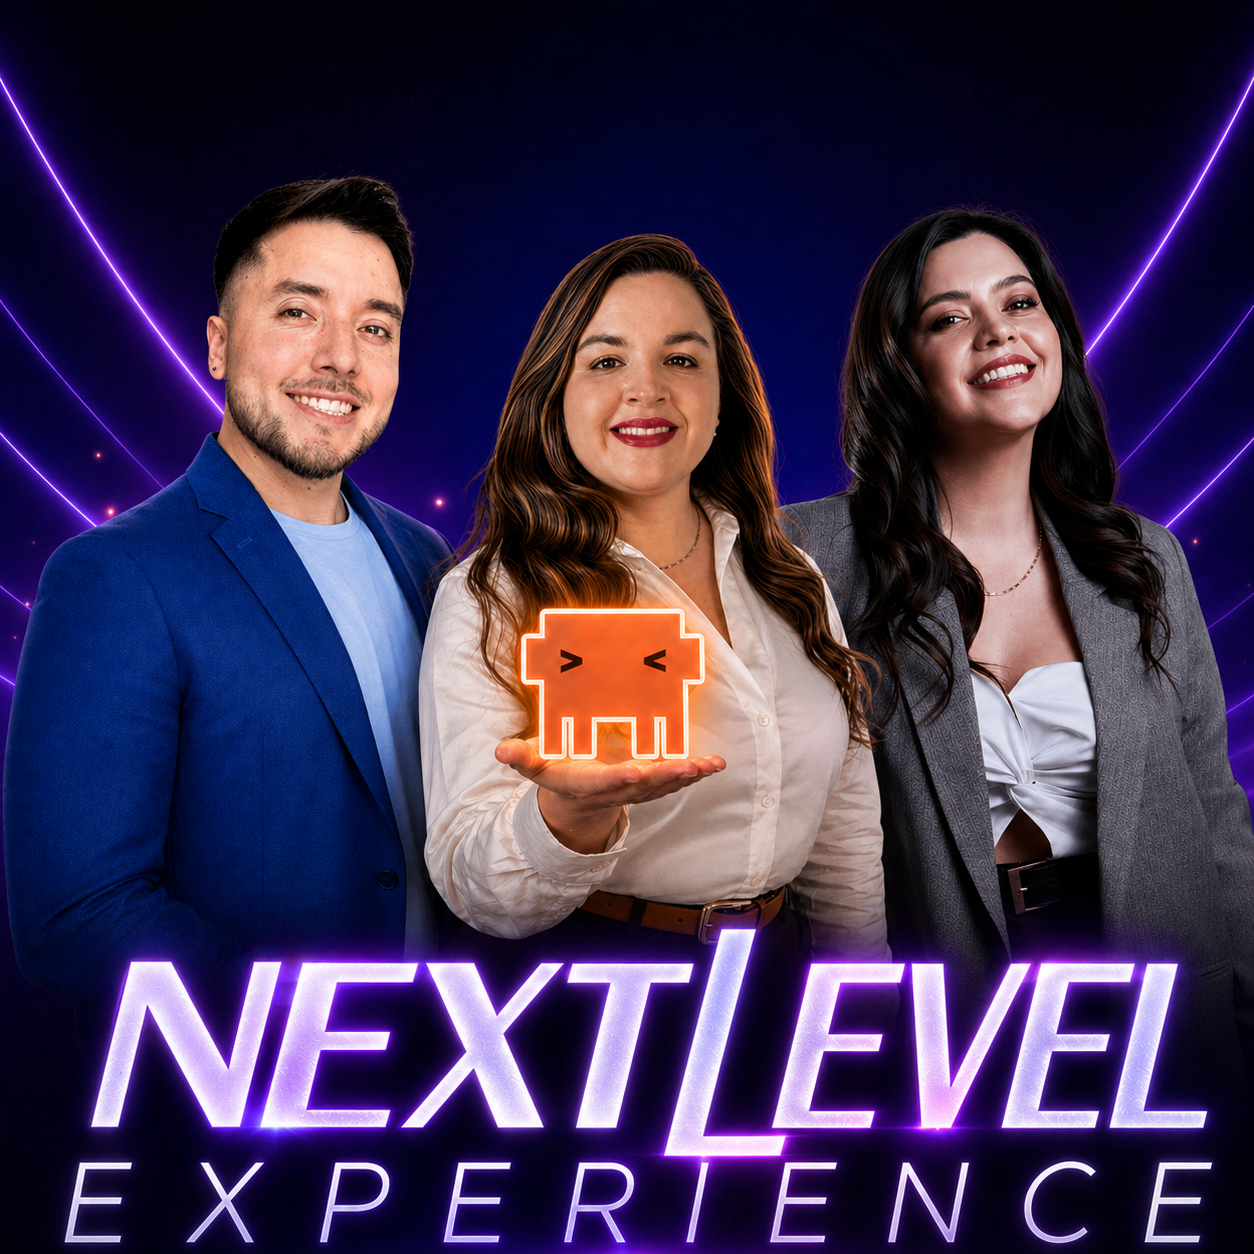
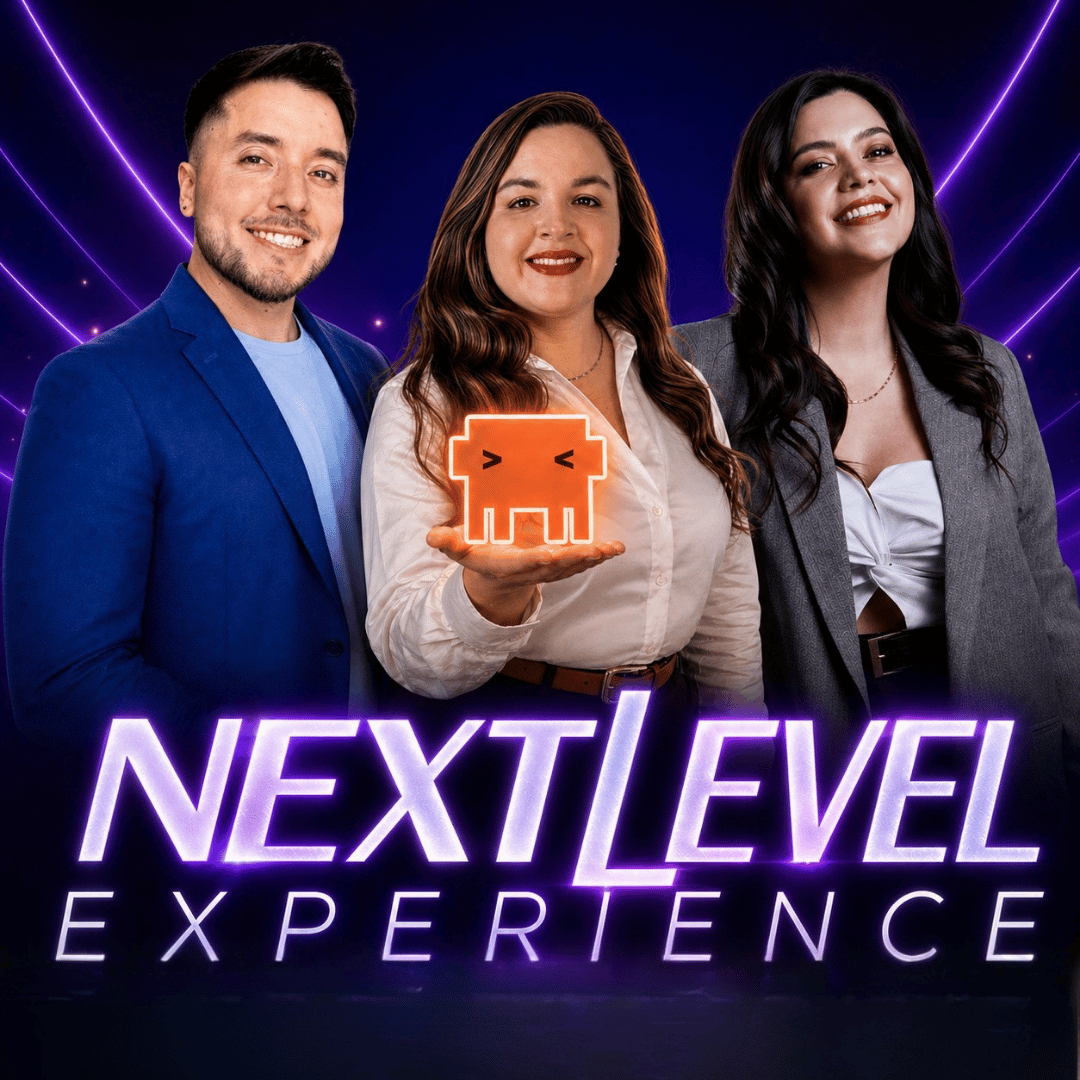
fix(hero): reemplaza foto con version mejor centrada (1080x1080)

diff --git a/src/components/landing/Hero.tsx b/src/components/landing/Hero.tsx
@@ -126,8 +126,8 @@ export function Hero() {
                 <Image
                   src="/hero.png"
                   alt="Equipo Next Level — Yoselvia, Sebastián y Valentina"
-                  width={1254}
-                  height={1254}
+                  width={1080}
+                  height={1080}
                   className="w-full h-full object-cover"
                   sizes="(max-width: 1024px) 100vw, 40vw"
                   priority
